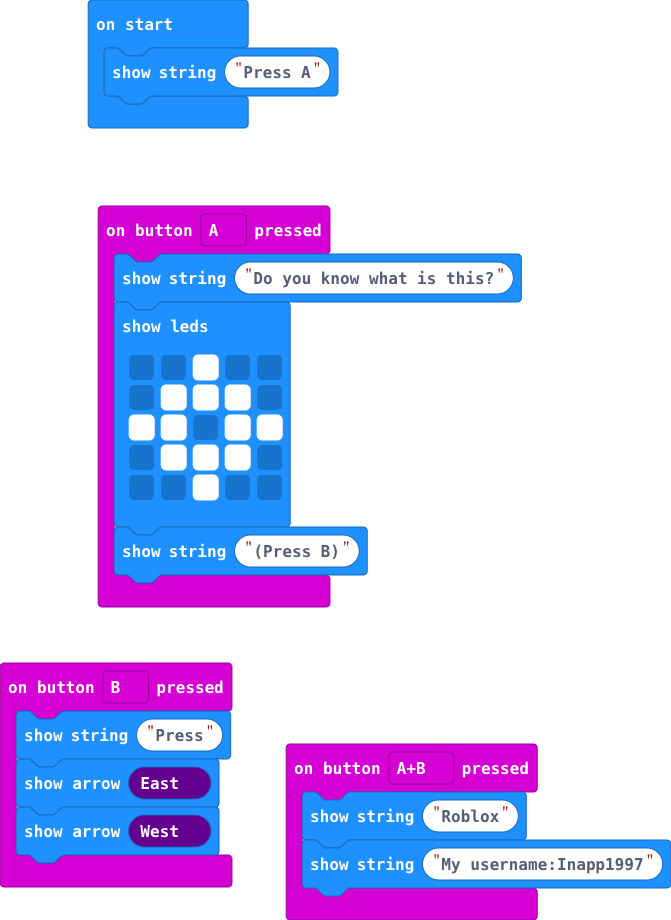
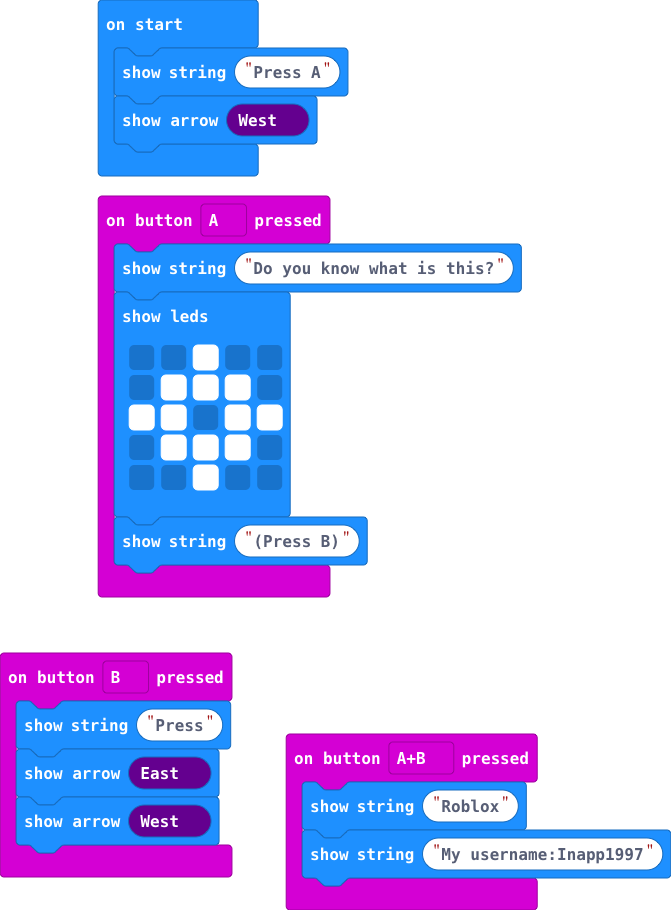
Update main.blocks, main.ts

diff --git a/main.ts b/main.ts
@@ -19,3 +19,4 @@ input.onButtonPressed(Button.B, function () {
     basic.showArrow(ArrowNames.West)
 })
 basic.showString("Press A")
+basic.showArrow(ArrowNames.West)
